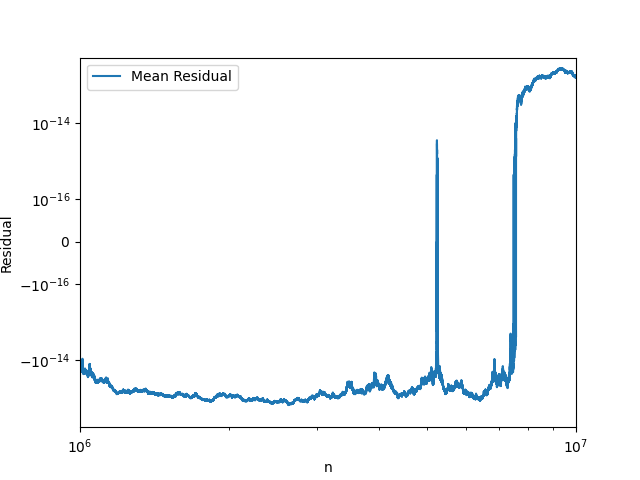
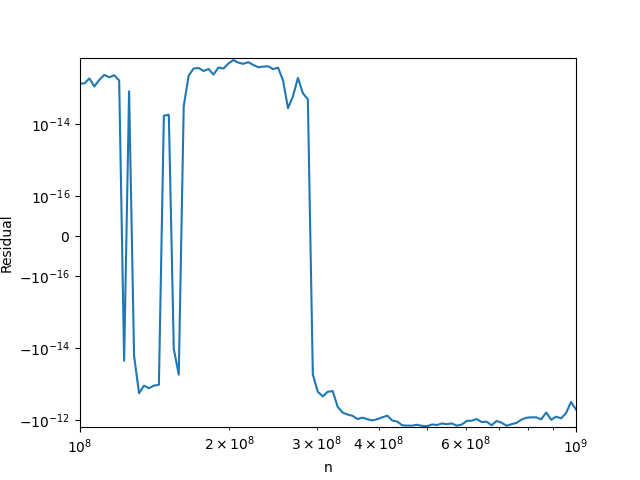
Add sampling function for sum_of_sins and update visualization

diff --git a/sum_of_sins.py b/sum_of_sins.py
@@ -6,34 +6,85 @@ def sum_of_sins(n):
     sum_sins = np.cumsum(sin_values)
     result_an = (np.sin((x+1)/2)*np.sin(x/2))/np.sin(1/2)
     return x, sum_sins,result_an
+def sum_of_sins_samples(n, sample_rate):
+    # Calculate the logarithmic sampling rate
+    x = np.arange(1, n + 1)
+    log_indices = np.unique(np.logspace(0, np.log10(n-1), num=int(np.log10(n)*100), dtype=int))
+    x_sampled = x[log_indices]
+    x=0
+    sum_sins = np.zeros_like( x_sampled, dtype=float)
+    cumulative_sum = 0
+    sin_values = np.sin(np.arange(1, n + 1))  # Precompute sin values
 
+    for i, val in enumerate(x_sampled):
+        print(i,len(x_sampled))
+        cumulative_sum = np.sum(sin_values[:val])  # Use slicing to calculate partial sums efficiently
+        sum_sins[i] = cumulative_sum
+    # Memory-efficient cumulative sum computation with sampling
+    '''
+    sum_sins = []
+    cumulative_sum = 0
+    current_index = 0
+
+    for i in range(1, n+1 ):
+        print(i)
+        cumulative_sum += np.sin(i)
+        if current_index<len(x):
+            if i == x[current_index]:
+                sum_sins.append(cumulative_sum)
+                current_index += 1
+        else:
+            break  
+    '''
+    result_an = (np.sin((x_sampled + 1) / 2) * np.sin(x_sampled / 2)) / np.sin(1 / 2)
+
+    return x_sampled, sum_sins, result_an
+
+    # Convert the list to a NumPy array
+    sum_sins = np.array(sum_sins)
+
+    # Analytical result computation for sampled x
+    result_an = (np.sin((x + 1) / 2) * np.sin(x / 2)) / np.sin(1 / 2)
+
+    return x_sampled, sum_sins, result_an
 if __name__ == "__main__":
-    power=8
+    power=9
     n = 10**power
     results_reds = []
     #x = np.memmap('x.dat', dtype='float64', mode='w+', shape=(n,))
     #result_sum = np.memmap('result_sum.dat', dtype='float64', mode='w+', shape=(n,))
     #result_an = np.memmap('result_an.dat', dtype='float64', mode='w+', shape=(n,))
 
-    x[:], result_sum[:], result_an[:] = sum_of_sins(n)
-    mean_residual = result_sum - result_an
-    x,result_sum,result_an = sum_of_sins(n)
-    mean_residual = result_sum - result_an
+    #x[:], result_sum[:], result_an[:] = sum_of_sins(n)
+    #mean_residual = result_sum - result_an
+    #x,result_sum,result_an = sum_of_sins(n)
+    #chunk_size = 10**3  # Adjust chunk size based on available memory
+    num_samples = 1000  # Number of samples to plot
+    x_sampled, result_sum_sampled, result_an_sampled = sum_of_sins_samples(n, num_samples)
+    print(x_sampled, result_sum_sampled, result_an_sampled)
+    #x_sampled, result_sum_sampled, result_an_sampled = sum_of_sins_chunked(n, chunk_size, num_samples)
+    mean_residual_sampled = result_sum_sampled - result_an_sampled
+
 
 
     # Calculate statistics
 
     #coeffs = np.polyfit(x, mean_residual, 10)
     #linear_fit = np.polyval(coeffs, x)
+    '''
+    log_indices = np.unique(np.logspace(0, np.log10(n-1), num=1000, dtype=int))
+    x_sampled = x[log_indices]
+    mean_residual_sampled = mean_residual[log_indices]
+    '''
     for i in range(power):
-        plt.plot(x, mean_residual, label='Mean Residual')
-
+        #plt.plot(x, mean_residual, label='Mean Residual')
+        plt.plot(x_sampled, mean_residual_sampled, label='Mean Residual')
         #plt.plot(x, linear_fit, label='Linear Fit', linestyle='--')
         plt.xlabel('n')
         plt.xscale('log')
         plt.yscale('symlog', linthresh=1e-16)
         plt.xlim(10**i, 10**(i+1))
         plt.ylabel('Residual')
-        plt.legend()
-        plt.savefig(f'sum_of_sins_{power}.png')
+
+        plt.savefig(f'sum_of_sins_{i}.png')
         plt.clf()
